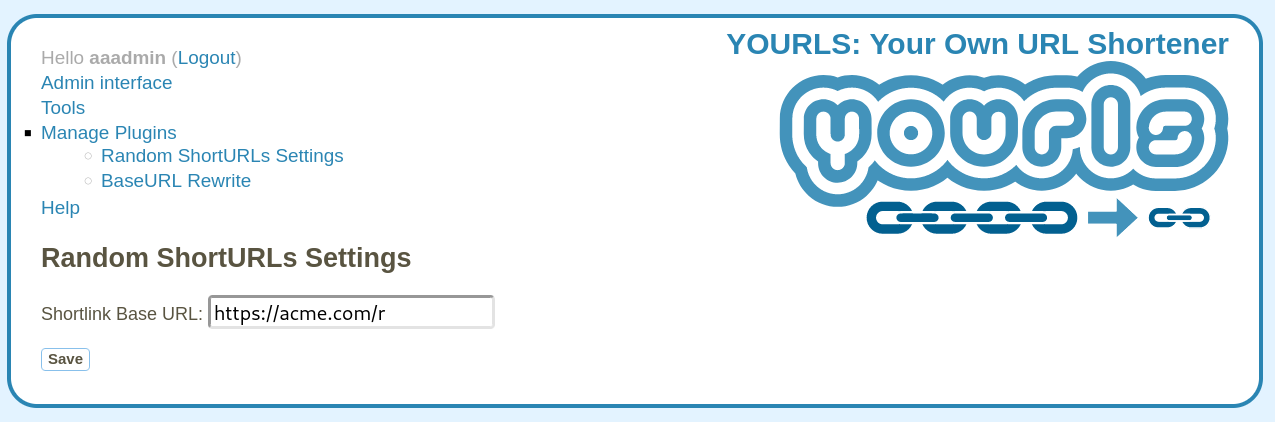
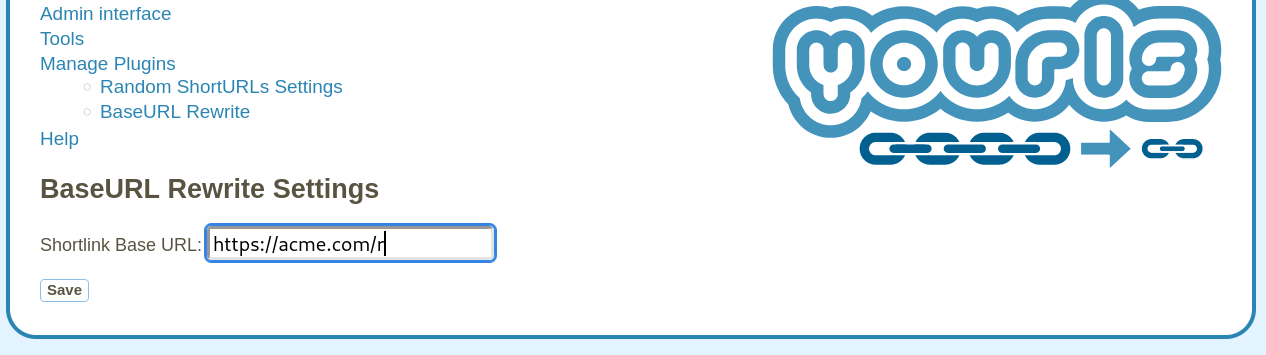
Adapted code base to comply with plugin conventions
* Simplified function names and variables
* Added comments to functions
* Prefixed function names
* Cleared some white space

diff --git a/plugin.php b/plugin.php
@@ -1,6 +1,6 @@
 <?php
 /*
-Plugin Name: Custom shortlink base URL
+Plugin Name: BaseURL Rewrite
 Plugin URI: https://github.com/christian-krieg/yourls-plugin-rewrite-yourls-site
 Description: Rewrite short links such that they point to another (base) domain
              (e.g., https://acme.com/r), different from the base domain of the
@@ -13,69 +13,89 @@ Author: Christian Krieg <christian@drkrieg.at>
 // No direct call
 if( !defined( 'YOURLS_ABSPATH' ) ) die();
 
-yourls_add_filter( 'yourls_link', 'rewrite_shortlink_base_url' );
-function rewrite_shortlink_base_url ($link) {
 
-    $shortlink_base_url = yourls_get_option( 'ck_shortlink_base_url', '');
+//
+// This filter function actually rewrites short URLs by replacing the original
+// base URL (as specified by ``YOURLS_SITE`` in `config.php`) with the base URL
+// given in the configuration option. If the base URL configuration option is
+// empty, the original short URL is returned.
+//
+// EXAMPLE:
+//
+// Lets assume the following:
+//
+//     YOURLS_SITE: "https://link.acme.com" (a constant defined in `config.php`)
+//     ck_base_url: "https://acme.com/r" (a configuration option)
+//
+// Then, YOURLS will create the (example) short link
+//
+//     https://acme.com/r/Ac3fG
+//
+// instead of
+//
+//     https://link.acme.com/Ac3fG
+//
+// It is assumed that the system behind ``https://acme.com/r`` performs (e.g.,
+// wildcard) redirects from ``https://acme.com/r/.*`` to
+// ``https://link.acme.com/.*`` which are then further redirected to the target
+// URL.
+//
+yourls_add_filter( 'yourls_link', 'ck_base_url_rewrite' );
+function ck_base_url_rewrite ($link) {
+    $base_url = yourls_get_option( 'ck_base_url', '');
 
-    if ( empty($shortlink_base_url) )
+    if ( empty($base_url) )
         return $link;
 
     $rewritten = str_replace(
         yourls_get_yourls_site(),
-        trim($shortlink_base_url, '/'),
+        trim($base_url, '/'),
         $link,
     );
-
     return $rewritten;
-
 }
 
 // Add a configuration page to the admin panel
-
-yourls_add_action( 'plugins_loaded', 'rewrite_shortlink_base_url_init' );
-
-function rewrite_shortlink_base_url_init() {
+yourls_add_action( 'plugins_loaded', 'ck_base_url_rewrite_init' );
+function ck_base_url_rewrite_init() {
     yourls_register_plugin_page(
-        'ck_rewrite_shortlink_base_url',
+        'ck_base_url_rewrite',
         'BaseURL Rewrite',
-        'ck_rewrite_shortlink_base_url_display_page',
+        'ck_base_url_rewrite_display_page',
     );
 }
 
 // The function that will draw the admin page
-function ck_rewrite_shortlink_base_url_display_page () {
-
+function ck_base_url_rewrite_display_page () {
     // Check if form was submitted
-    if( isset( $_POST['shortlink_base_url'] ) ) {
+    if( isset( $_POST['base_url'] ) ) {
         // If so, verify nonce
-        yourls_verify_nonce( 'shortlink_base_url_settings' );
+        yourls_verify_nonce( 'base_url_settings' );
         // and process submission if nonce is valid
-        ck_rewrite_shortlink_base_url_settings_update();
+        ck_base_url_rewrite_settings_update();
     }
 
-    $shortlink_base_url = yourls_get_option('ck_shortlink_base_url', '');
-    $nonce = yourls_create_nonce('shortlink_base_url_settings');
+    $base_url = yourls_get_option('ck_base_url', '');
+    $nonce = yourls_create_nonce('base_url_settings');
 
     echo <<<HTML
         <main>
-            <h2>Random ShortURLs Settings</h2>
+            <h2>BaseURL Rewrite Settings</h2>
             <form method="post">
             <input type="hidden" name="nonce" value="$nonce" />
             <p>
                 <label>Shortlink Base URL:</label>
-                <input type="text" name="shortlink_base_url" value="$shortlink_base_url" />
+                <input type="text" name="base_url" value="$base_url" />
             </p>
             <p><input type="submit" value="Save" class="button" /></p>
             </form>
         </main>
 HTML;
-
 }
 
-
-function ck_rewrite_shortlink_base_url_settings_update() {
-    $shortlink_base_url = $_POST['shortlink_base_url'];
-    yourls_update_option( 'ck_shortlink_base_url', $shortlink_base_url );
+// The function that updates the configuration option
+function ck_base_url_rewrite_settings_update() {
+    $base_url = $_POST['base_url'];
+    yourls_update_option( 'ck_base_url', $base_url );
 }
 

diff --git a/README.md b/README.md
@@ -6,8 +6,14 @@ Tested with [YOURLS](https://yourls.org), version `1.9.2`.
 
 ## Usage
 
+### General
+
 The only configuration option for the "BaseURL Rewrite" plugin is a text string
 that specifies the base URL of generated shortlinks.
+
+This plugin rewrites short URLs by replacing the original base URL (as specified
+by ``YOURLS_SITE`` in `config.php`) with the base URL given as configuration
+option. If the base URL is empty, the original short URL is returned.
 
 This base URL can be different from the domain from which YOURLS is served.
 Rewrite short links such that they point to another (base) domain (e.g.,
@@ -24,6 +30,26 @@ performs redirects to the site where YOURLS is served from (e.g.
 ``https://link.acme.com``).
 
 ![The admin interface of the plugin](config.png)
+
+### Example
+
+Lets assume the following:
+
+    YOURLS_SITE: "https://link.acme.com" (a constant defined in `config.php`)
+    ck_base_url: "https://acme.com/r" (a registered configuration option)
+
+Then, YOURLS will create the (example) short link
+
+    https://acme.com/r/Ac3fG
+
+instead of
+
+    https://link.acme.com/Ac3fG
+
+It is assumed that the system behind ``https://acme.com/r`` performs (e.g.,
+wildcard) redirects from ``https://acme.com/r/.*`` to
+``https://link.acme.com/.*`` which are then further redirected to the respective
+target URLs.
 
 
 ## Installation
